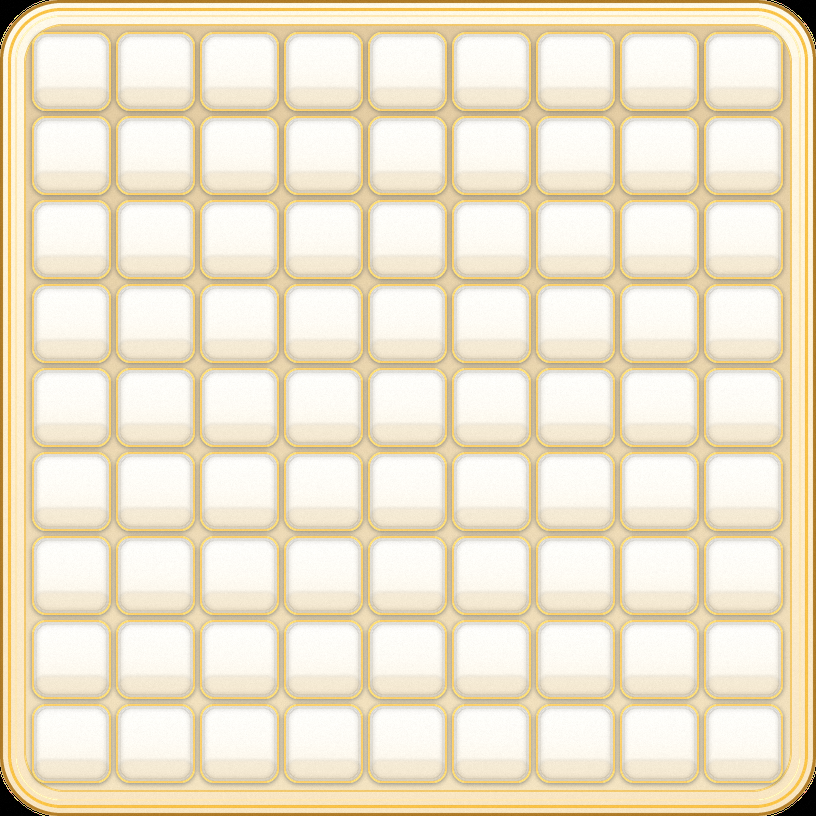
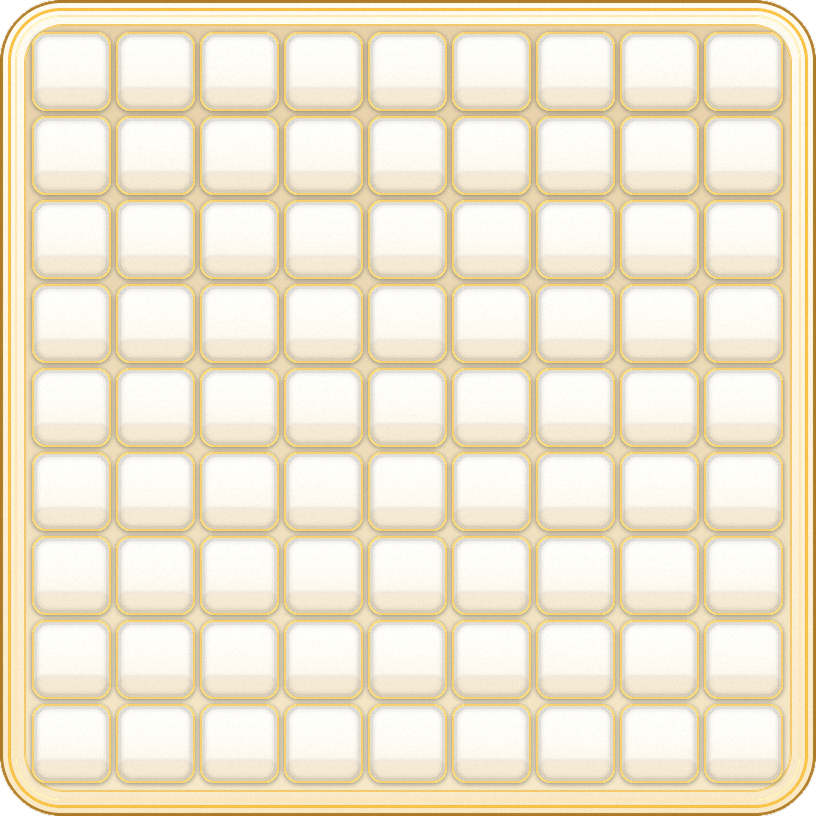
art(tray): give the board its corners back
Graing the tray converted it to RGB, and converting a plate with transparent rounded corners to RGB
turns every corner black — four black wedges on the board, in every capture. The colour is grained and
the plate's alpha is put back afterwards, and the face and the gaps are a shade lighter so the grid
reads like the reference's white trays.

diff --git a/godot-port/tools/import_plate_art.py b/godot-port/tools/import_plate_art.py
@@ -174,8 +174,8 @@ def build_tray() -> Image.Image:
     radius = int(size * 0.075)
     # A cream frame with one gold line, like the reference: the board is the brightest thing on the
     # screen, and a blue frame round it made the grid look like a panel on a dashboard.
-    picture = _plate((size, size), radius, [(0.0, (255, 250, 234)), (0.42, IVORY),
-                                            (1.0, _mix(IVORY, (243, 220, 176), 0.5))])
+    picture = _plate((size, size), radius, [(0.0, (255, 252, 242)), (0.42, (255, 245, 224)),
+                                            (1.0, _mix(IVORY, (246, 225, 184), 0.5))])
     # Three lines, the way the reference's frame is built: a dark outer edge, the gold, and a warm
     # inner keyline that separates the gold from the cream.
     picture = _rim(picture, radius, _mix(GOLD_DARK, (168, 124, 52), 0.4), width=3)
@@ -186,7 +186,7 @@ def build_tray() -> Image.Image:
     # grid (which starts 15 dp in), so the royal frame keeps a band of its own all the way round.
     inner = int(size * 0.030)
     bed = _plate((size - inner * 2, size - inner * 2), int(size * 0.050),
-                 [(0.0, (226, 202, 160)), (1.0, (244, 228, 194))])
+                 [(0.0, (231, 209, 169)), (1.0, (247, 233, 202))])
     bed = _rim(bed, int(size * 0.050), _mix(GOLD, IVORY_SHADE, 0.35), width=2)
     picture.alpha_composite(bed, (inner, inner))
 
@@ -235,7 +235,12 @@ def build_tray() -> Image.Image:
     mask = Image.new("L", (size, size), 0)
     ImageDraw.Draw(mask).rounded_rectangle((0, 0, size - 1, size - 1), radius=radius, fill=255)
     picture.putalpha(mask)
-    return _grain(picture.convert("RGB"), 2.0, 11)
+    # The grain is added on the colour and the plate's own alpha goes back on afterwards: converting
+    # the plate to RGB to grain it dropped that alpha, and a dropped alpha is black, so every board in
+    # every capture has had four black corners where the tray's rounded corners should be.
+    grained = _grain(picture.convert("RGB"), 2.0, 11).convert("RGBA")
+    grained.putalpha(mask.filter(ImageFilter.GaussianBlur(0.6)))
+    return grained
 
 
 def _ornament(size, centre, radius, petal=(TEAL, GOLD, TEAL_DARK)):
